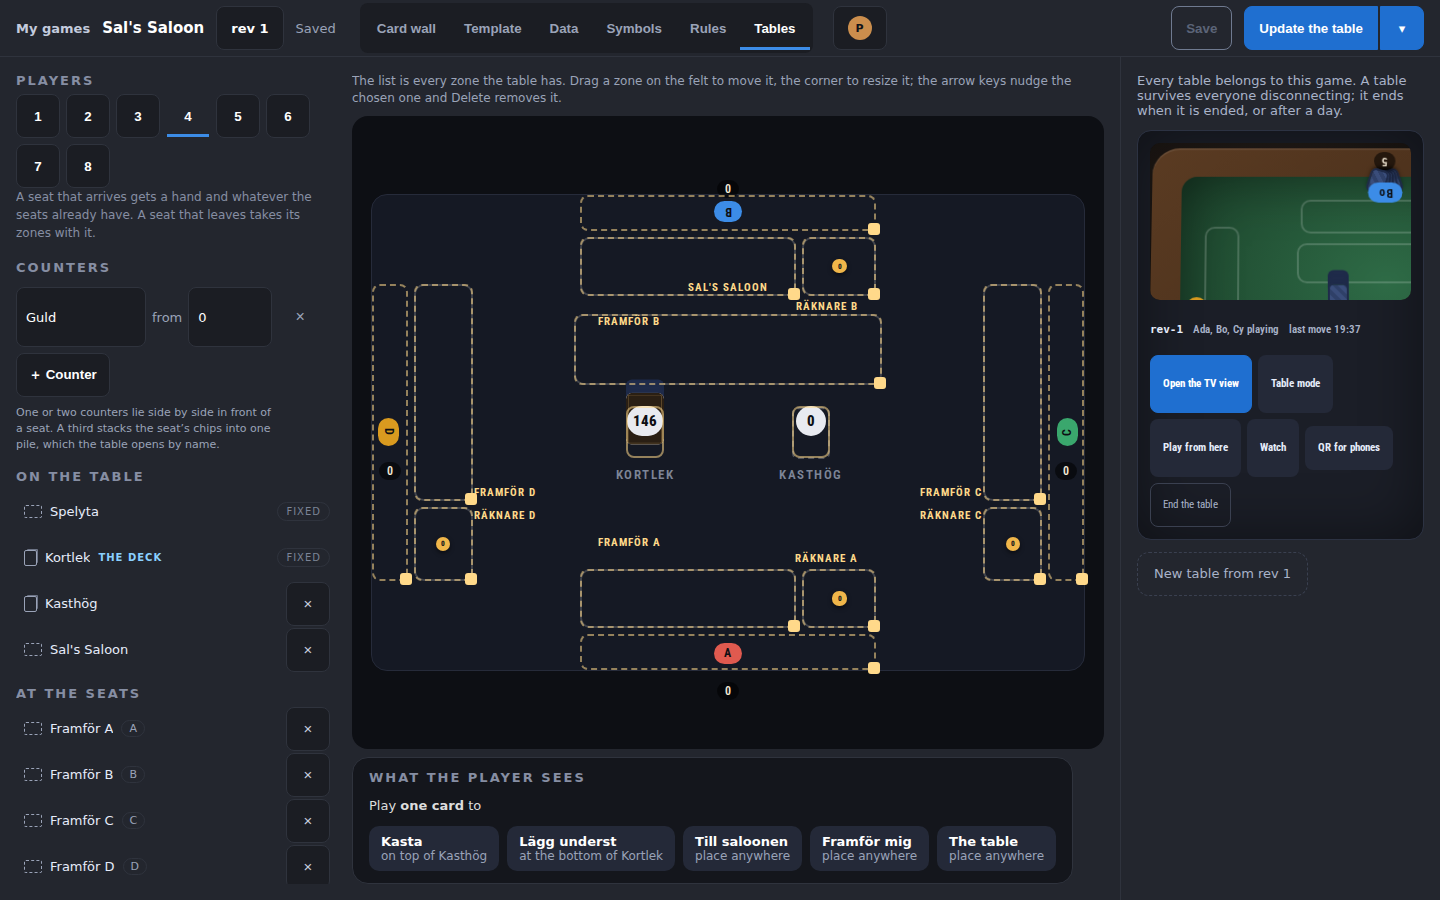
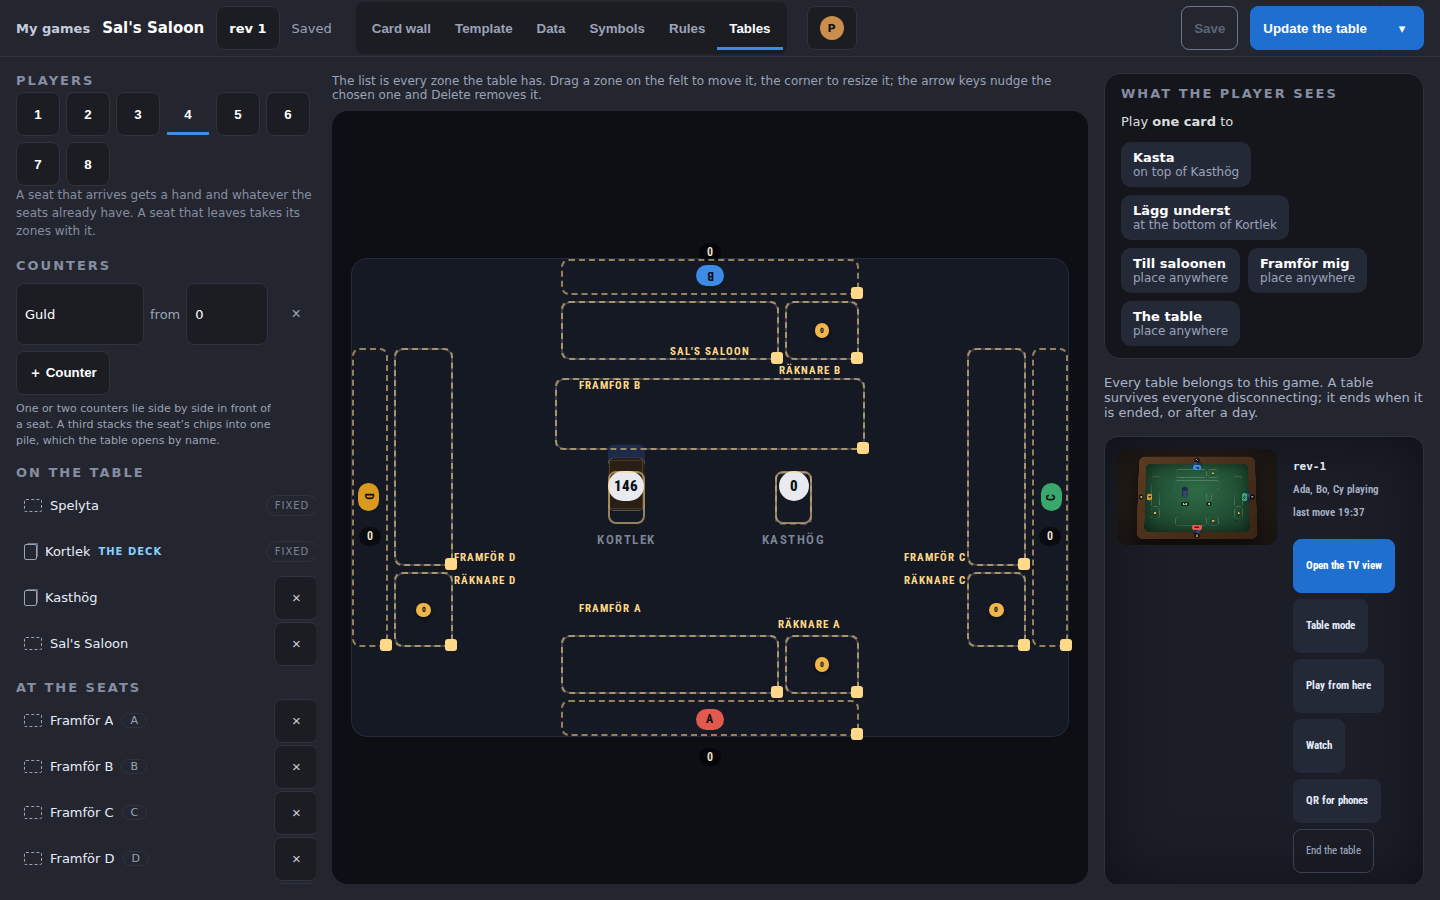
En ruta ingen kan se flyttade sidan: `.byd-offscreen` var onålad
Det här är mekanismen rapporten inte kunde förklara. `.byd-offscreen` — raden
bara en skärmläsare läser — är `position: absolute` utan `top` och `left`, och
en absolut ruta utan dem behåller sin statiska position: där flödet hade lagt
den, alltså allra sist i den öppna fliken. På Bord, som var två skärmar hög,
hamnade den 1 px höga rutan på y = 1036, och `.byd-editor` växte efter den även
om `main` klippte allt annat. Därav de 137 px fönsterskroll, sidhuvudet som
lämnade skärmen och den tomma sidytan under appen (#126).

Felet överlevde att fliken blev en skärm hög: 7 px förbi ett 768 px fönster,
kvar på `main` efter #154. `editor-one-screen.test.tsx` fällde det där, och det
är vad det testet är till för — mains egna Bord-test mäter uppställningens
rutor, inte dokumentet. Rutan är nu nålad i editorns övre vänstra hörn.

`.byd-setup` får också sin rad golvad med `minmax(0, 1fr)`. Som ensam implicit
`auto`-rad tog spåret zonlistans max-content — 738 px vid fyra platser — och
en kolumn som skrollar har ingenting att säga om hur hög dess rad ska vara.

Grenen är samtidigt omarbetad mot main: #126 och #132 gick i #154, #133 i #134
och #127 i #135, så den här bär bara #128, #130, #131 och halva #129 kvar,
plus rapporten och prototyperna. `useDismiss` och `editor-gutter` är borttagna —
#134:s ena tillstånd och #154:s `editor-spacing` är bägge strängare.

Efter omarbetningen: typecheck och lint gröna, `@byd/web` 2 178 gröna med de
[…]

diff --git a/docs/ux-audits/2026-09-16.md b/docs/ux-audits/2026-09-16.md
@@ -45,12 +45,26 @@ flikarna och **Uppdatera bordet** lämnar skärmen, och under editorn blir en to
 `documentElement.scrollHeight` mot fönstret: **1037 mot 900** vid 1440 × 900, **942 mot 800** vid
 1280 × 800, **921 mot 768** vid 1024 × 768. Alla andra fem flikar håller sig på exakt fönsterhöjd.
 
-Orsaken är att fliken är två paneler staplade: `EditorPage.panel.tables` renderar
-`<SetupEditor/>` följt av `<TablesTab/>`, och `.byd-tables` har `height: 100%`. Fliken blir därmed
-två skärmhöjder — `main` har 1667 px innehåll i en 843 px ruta — och listan över pågående bord
-ligger en hel skärm under uppställningen. Tre skrollytor ligger i varandra: `main`, `.byd-tables`
-och `.byd-setup-side` (vars `max-height: calc(100vh - 116px)` dessutom gissar chromets höjd i
-stället för att mäta den).
+Orsaken är två, och den andra tog ett tag att hitta.
+
+Den första: fliken är två paneler staplade. `EditorPage.panel.tables` renderar `<SetupEditor/>`
+följt av `<TablesTab/>`, och `.byd-tables` har `height: 100%`, så fliken blir två skärmhöjder —
+`main` har 1667 px innehåll i en 843 px ruta — och listan över pågående bord ligger en hel skärm
+under uppställningen. Tre skrollytor ligger i varandra: `main`, `.byd-tables` och
+`.byd-setup-side` (vars `max-height: calc(100vh - 116px)` dessutom gissar chromets höjd i stället
+för att mäta den).
+
+Den andra är varför *fönstret* skrollade och inte bara arbetsytan, vilket den här rapporten först
+inte kunde förklara. `.byd-offscreen` — raden bara en skärmläsare läser — är `position: absolute`
+utan `top` och `left`. En absolut ruta utan dem behåller sin **statiska** position, alltså där
+flödet hade lagt den: allra sist i den öppna fliken. På en flik som var två skärmar hög hamnade
+den 1 px höga rutan på y = 1036, och `.byd-editor` växte efter den även om `main` klippte allt
+annat. Det är därför sidhuvudet åkte ur bild och en tom sidyta blev synlig: ingenting man kan se
+flyttade sidan, utan något man inte kan se.
+
+Rutan är nu fastnålad i editorns eget övre vänstra hörn. Felet fanns kvar i mindre form efter att
+fliken blivit en skärm hög — 7 px förbi ett 768 px fönster — och hittades av
+`editor-one-screen.test.tsx` på `main` efter att #126 var löst där.
 
 [Nu, 1440](2026-09-16/ux16-2-bord-nu-1440.png) · [skrollad](2026-09-16/ux16-2-bord-sidan-skrollad-1440.png)
 · [Förslag](2026-09-16/ux16-2-bord-forslag-1440.png)
@@ -203,7 +217,13 @@ Fynd 1 är blockeraren och publicerades först.
 
 ## Åtgärdat
 
-Alla åtta fynd är rättade i samma gren som rapporten. Regeln nedan är nu mätt i test, inte bara
+Alla åtta fynd är rättade, men inte i en gren: arbetet delades på tre PR:er när samma issues
+plockades upp parallellt. #126 och #132 gick i [#154](https://github.com/Tiico/build-a-deck/pull/154),
+#133 i [#134](https://github.com/Tiico/build-a-deck/pull/134), #127 i
+[#135](https://github.com/Tiico/build-a-deck/pull/135), och #128, #130 och #131 i
+[#155](https://github.com/Tiico/build-a-deck/pull/155) tillsammans med den här rapporten.
+#129 är halvt gjord — gruppremsan radbryter, lagerkolumnens krona och den infällbara
+egenskapskolumnen står kvar — och issuet är öppet för resten. Regeln nedan är nu mätt i test, inte bara
 beskriven: `packages/web/test/editor-one-screen.test.tsx` öppnar varje flik på en riktig lek —
 60 kort, fyra platser, ett pågående bord — vid 1024 × 768, 1280 × 800 och 1440 × 900 och kräver att
 `documentElement` är exakt fönstret och att `main` är exakt den ruta den fått. Det testet föll på
